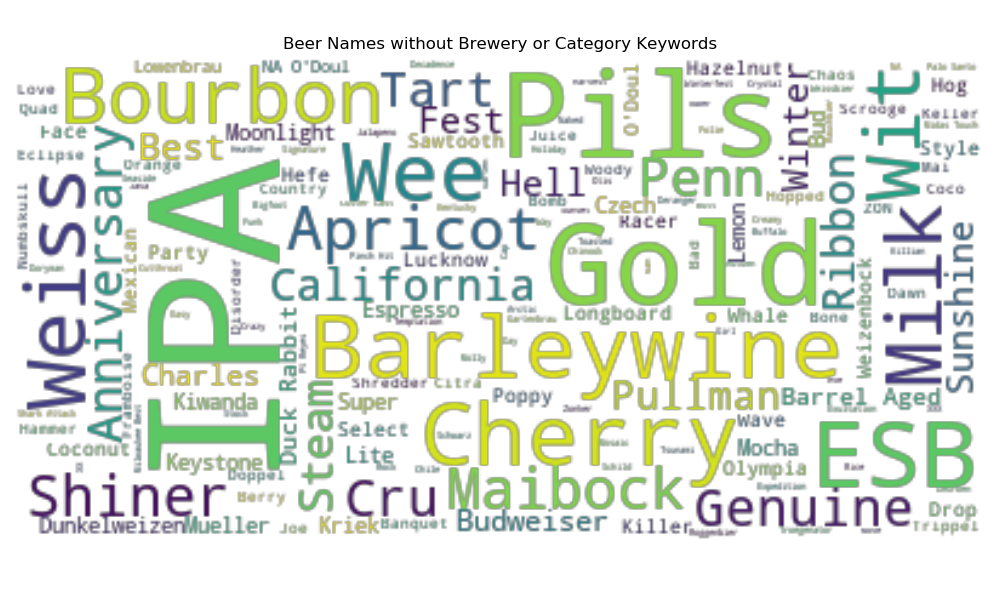
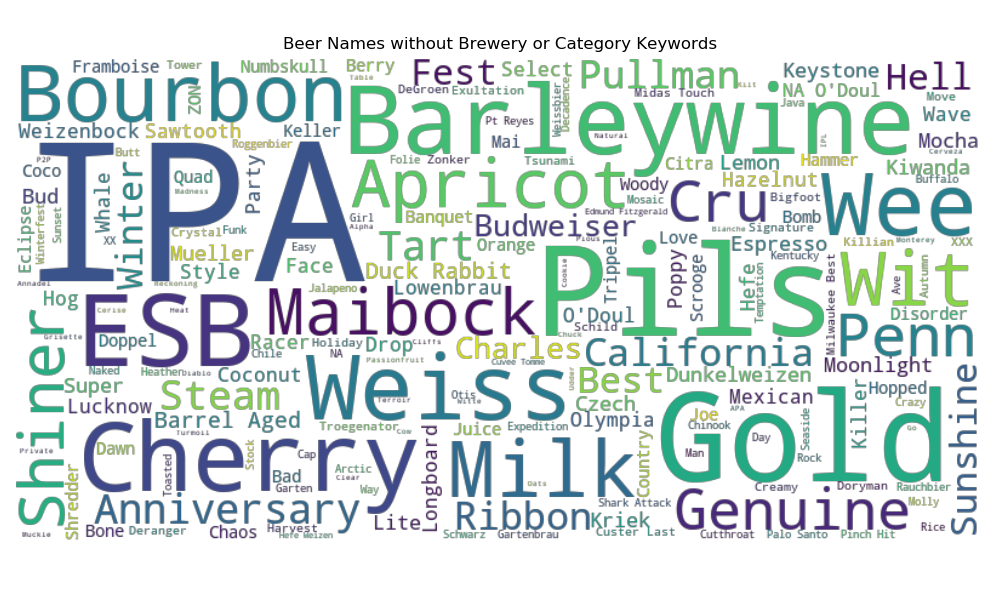
improved word cloud resolution

diff --git a/src/visualization/word_frequency.py b/src/visualization/word_frequency.py
@@ -28,7 +28,7 @@ def create_word_cloud(pd_series, title):
     create a word cloud from a pandas series of text with a given plot title
     """
     text = " ".join(name for name in pd_series)
-    wordcloud = WordCloud(mode="RGBA", background_color=None).generate(text)
+    wordcloud = WordCloud(mode="RGBA", background_color=None, width=800, height=400).generate(text)
     plt.figure(figsize=(10, 6))
     plt.imshow(wordcloud, interpolation='bilinear')
     plt.axis("off")
